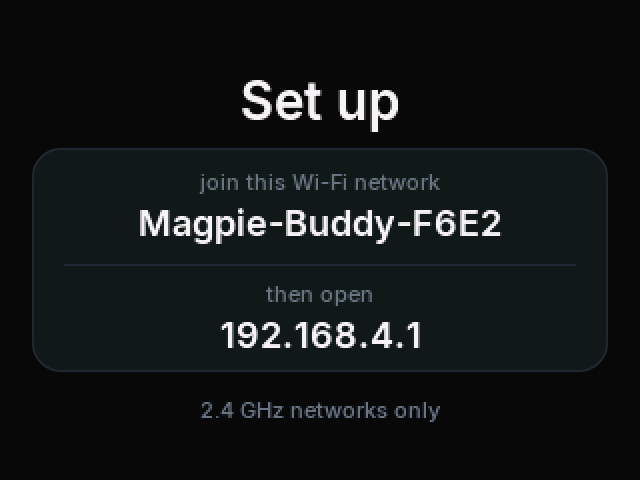
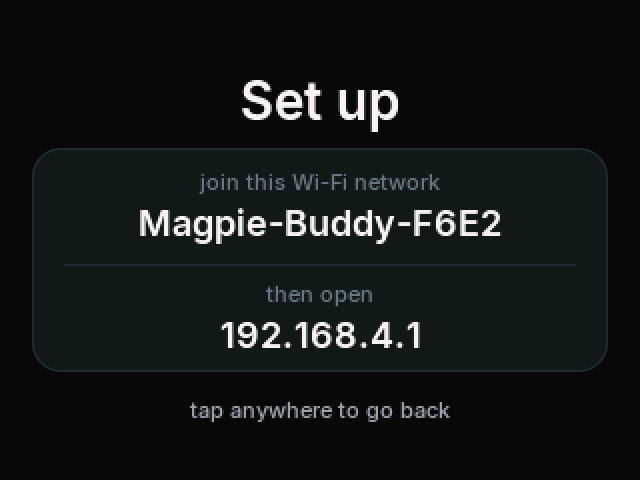
Let the setup page be left again
The three-second hold called forget(), which deleted the saved network. That
made the setup page a one-way door: looking at it cost you the network you
already had, and the only way back was a phone or a serial cable. A gesture
that opens a page should not destroy anything.

The hold now asks the next boot to come up in setup and leaves the network
alone (requestSetup / takeSetupRequest, read once at boot so a board that was
power-cycled while in setup comes back to its pages). On the page, a tap
restarts into the saved network; the footer says "tap anywhere to go back" when
there is one behind it, and keeps the 2.4 GHz warning when there is not.

forget() is now only the serial command, which is where throwing the network
away is the point.

Also: the "page drawn" line moved from screen.cpp to main.cpp. screen.cpp is
compiled by the host renderer, which has no Serial, so a log there breaks the
preview build — the tool that shows what the page looks like.

Changed region(s): [[0.2812, 0.8438, 0.7188, 0.875]]

diff --git a/firmware/src/main.cpp b/firmware/src/main.cpp
@@ -63,6 +63,9 @@ WebServer http(kHttpPort);
 // set when the board is being set up: loop() then serves the portal and
 // nothing else, because there is no network to be on yet
 bool gProvisioning = false;
+// set when there is a saved network behind the setup page, which is what makes
+// a tap leave it rather than being swallowed
+bool gSetupCanLeave = false;
 WiFiUDP udp;
 magpie::Screen screen;
 
@@ -208,11 +211,18 @@ void setup() {
   // No network saved: the board has to be told one, so it raises its own access
   // point and waits for a phone. This is the one step that used to need a
   // rebuild, because the SSID and password were compiled in.
-  Serial.printf("boot: %s\n", provision::hasCredentials() ? "a network is saved" : "no network saved");
-  if (!provision::hasCredentials()) {
+  const bool saved = provision::hasCredentials();
+  // A hold asks for the setup page; a board with nothing saved has no choice.
+  // The request is taken (and cleared) here, so a board that was power-cycled
+  // while it was in setup comes back to its pages rather than staying there.
+  const bool asked = provision::takeSetupRequest();
+  Serial.printf("boot: %s%s\n", saved ? "a network is saved" : "no network saved",
+                asked ? ", setup was asked for" : "");
+  if (asked || !saved) {
     provision::begin();
-    screen.setup(provision::apName(), WiFi.softAPIP().toString().c_str());
+    screen.setup(provision::apName(), WiFi.softAPIP().toString().c_str(), saved);
     gProvisioning = true;
+    gSetupCanLeave = saved;
     Serial.println("setup: waiting for a network from the portal");
     return;
   }
@@ -276,8 +286,10 @@ void loop() {
   // was blocked — during the join at boot — measured against a stale start and
   // wiped the network on a single tap.
   if (M5.Touch.getDetail(0).wasHold()) {
-    provision::forget();
-    Serial.println("setup: held three seconds, restarting to be set up");
+    // Asking for setup, not forgetting: the network stays saved, so the page
+    // can be looked at and left again. Only the serial `forget` throws it away.
+    provision::requestSetup();
+    Serial.println("setup: held three seconds, restarting into setup");
     delay(120);
     ESP.restart();
   }
@@ -328,7 +340,21 @@ void loop() {
     // network was forgotten, so the access point was up and the screen said
     // nothing about it.
     provision::tick();
+    // A tap leaves the page when there is a saved network behind it. Without
+    // one the only way on is a phone, and the footer says so instead.
+    if (gSetupCanLeave && M5.Touch.getDetail(0).wasClicked()) {
+      Serial.println("setup: leaving setup, the saved network stands");
+      delay(120);
+      ESP.restart();
+    }
     screen.tick(millis());
+    // Said once: a page that draws and a page that does not look identical from
+    // outside the board, and this one was not being drawn at all for a while.
+    static bool saidDrawn = false;
+    if (!saidDrawn) {
+      saidDrawn = true;
+      Serial.println("setup: page drawn");
+    }
     delay(2);
     return;
   }

diff --git a/firmware/src/screen.cpp b/firmware/src/screen.cpp
@@ -632,9 +632,10 @@ void Screen::set(const Frame& f) {
   painted_ = false;
 }
 
-void Screen::setup(const char* ap, const char* ip) {
+void Screen::setup(const char* ap, const char* ip, bool canLeave) {
   snprintf(setupAp_, sizeof setupAp_, "%s", ap ? ap : "");
   snprintf(setupIp_, sizeof setupIp_, "%s", ip ? ip : "");
+  setupCanLeave_ = canLeave;
   setup_ = Setup::kWaiting;
   painted_ = false;
 }
@@ -736,13 +737,6 @@ void Screen::drawSlide(uint32_t now) {
   if (setup_ != Setup::kOff) {
     paintSetup(stage_);
     stage_.pushSprite(0, 0);
-    // Said once: a page that draws and a page that does not look identical from
-    // the outside, and this one was not being drawn at all for a while.
-    static bool said = false;
-    if (!said) {
-      said = true;
-      Serial.println("setup: page drawn");
-    }
     return;
   }
 
@@ -804,8 +798,15 @@ void Screen::paintSetup(M5Canvas& g) {
     ui::drawTop(g, UI_18, setupIp_, 160, cardY + 82, kFg, ui::kCenter);
   }
 
-  // The one failure everybody hits and nobody is told about.
-  ui::drawTop(g, UI_11, "2.4 GHz networks only", 160, 198, kFg3, ui::kCenter);
+  // The footer says what the next move is. With a network already saved that is
+  // a tap back to the pages; without one the only way on is the phone, and then
+  // the thing worth saying is the failure everybody hits and nobody is told
+  // about.
+  if (setupCanLeave_) {
+    ui::drawTop(g, UI_11, "tap anywhere to go back", 160, 198, kFg2, ui::kCenter);
+  } else {
+    ui::drawTop(g, UI_11, "2.4 GHz networks only", 160, 198, kFg3, ui::kCenter);
+  }
 }
 
 void Screen::paintOffline(M5Canvas& g) {

diff --git a/firmware/src/provision.cpp b/firmware/src/provision.cpp
@@ -36,6 +36,9 @@ constexpr const char* kKeyPass = "wifi_pass";
 // Set when the user asks the board to forget: it suppresses the network
 // compiled in from config.h too, which a plain "no keys saved" cannot.
 constexpr const char* kKeyForgotten = "wifi_forgot";
+// Set by the hold, read once at boot: come up in setup without losing the
+// network that is already saved.
+constexpr const char* kKeySetup = "wifi_setup";
 
 constexpr uint16_t kPortalPort = 80;
 constexpr uint8_t kMaxNetworks = 24;
@@ -181,6 +184,21 @@ void save(const char* ssid, const char* pass) {
   prefs.end();
   Serial.printf("setup: saving %s open=%d wrote ssid=%u pass=%u\n", ssid, int(ok),
                 unsigned(a), unsigned(b));
+}
+
+void requestSetup() {
+  prefs.begin(kNvs, false);
+  prefs.putBool(kKeySetup, true);
+  prefs.end();
+  Serial.println("setup: the next boot comes up in setup");
+}
+
+bool takeSetupRequest() {
+  prefs.begin(kNvs, false);
+  const bool asked = prefs.getBool(kKeySetup, false);
+  if (asked) prefs.remove(kKeySetup);
+  prefs.end();
+  return asked;
 }
 
 void forget() {

diff --git a/firmware/include/screen.h b/firmware/include/screen.h
@@ -58,7 +58,9 @@ class Screen {
   // setup puts the board's own access point on the glass: the name to join and
   // the address to open. It takes the whole panel, tabs included — the pages
   // have nothing to show until the board is on a network.
-  void setup(const char* ap, const char* ip);
+  // canLeave says there is a saved network to go back to, which is what makes
+  // the page's footer offer a tap instead of a warning about 2.4 GHz.
+  void setup(const char* ap, const char* ip, bool canLeave);
 
   // setupFailed says the network it was given did not take. Without it a board
   // with a mistyped password says "magpie offline" for ever, which looks like
@@ -167,6 +169,7 @@ class Screen {
   char setupAp_[32] = {0};
   char setupIp_[16] = {0};
   char setupSsid_[33] = {0};
+  bool setupCanLeave_ = false;
   bool painted_ = false;
   int battery_ = -1;         // 0..100, -1 unknown
   bool charging_ = false;

diff --git a/firmware/include/provision.h b/firmware/include/provision.h
@@ -24,7 +24,17 @@ const char* pass();
 // `join` command, which is how a board with no page to be reached on recovers.
 void save(const char* ssid, const char* pass);
 
-// forget clears the saved network, so the next boot provisions again.
+// requestSetup asks the next boot to come up in setup mode, keeping the saved
+// network. That is what the three-second hold does: looking at the setup page
+// should not cost you the network you already had.
+void requestSetup();
+
+// takeSetupRequest reads that request and clears it, so it is acted on once:
+// a board that was power-cycled while in setup comes back to its pages.
+bool takeSetupRequest();
+
+// forget clears the saved network, so the next boot provisions again. Only the
+// serial command does this; the gesture does not.
 void forget();
 
 // dump prints what NVS holds, without the password itself.
